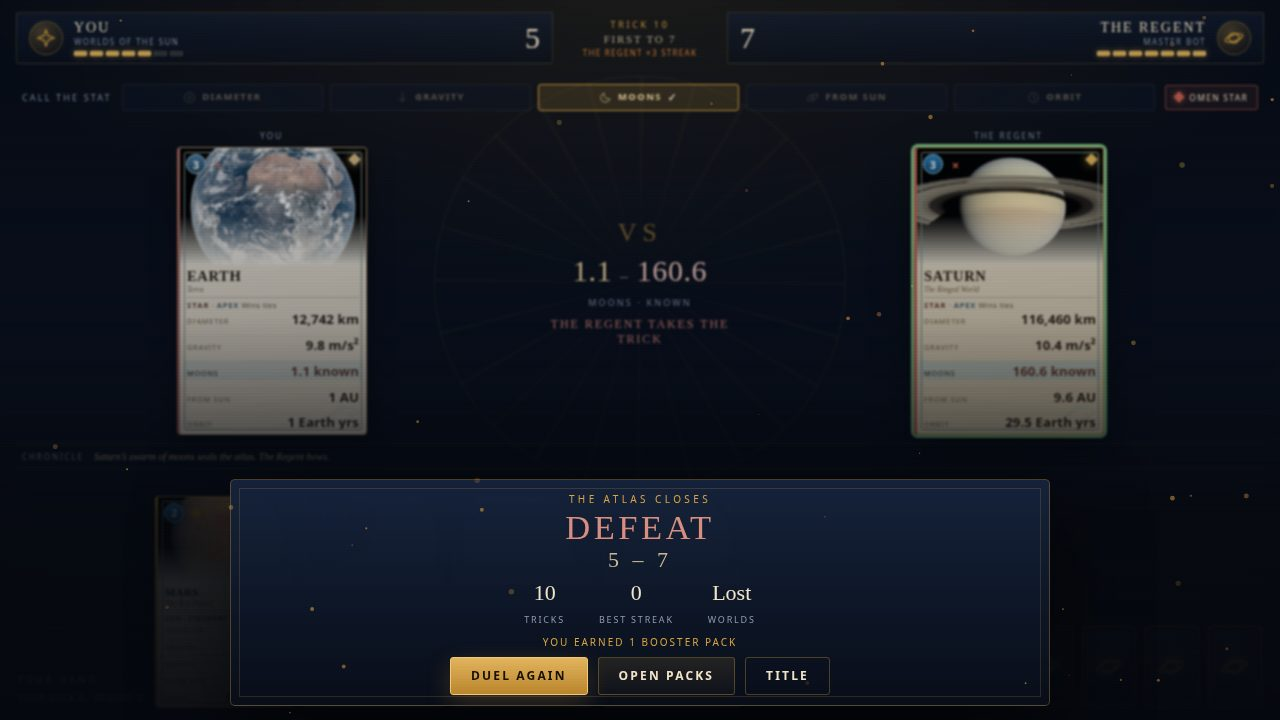
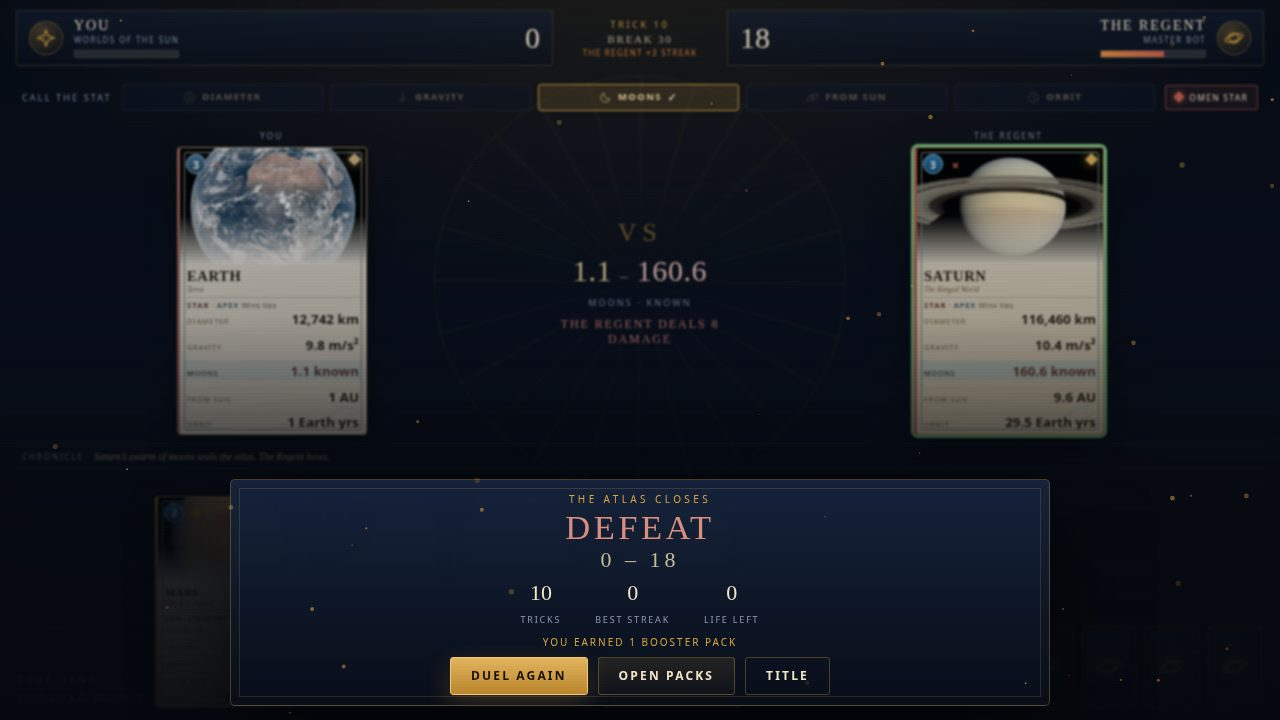
Turn points into a Resolve life duel with damage

diff --git a/game/src/render.js b/game/src/render.js
@@ -108,8 +108,9 @@ function miniCardHtml(deck, card, locked) {
   </button>`;
 }
 
-function scorePips(score, target, side) {
-  return `<div class="pips ${side}">${Array.from({ length: target }, (_, i) => `<span class="pip${i < score ? ' on' : ''}"></span>`).join('')}</div>`;
+function lifeBar(life, max, side) {
+  const pct = Math.max(0, Math.min(100, (life / Math.max(1, max)) * 100));
+  return `<div class="life-bar ${side}"><span style="width:${pct}%"></span></div>`;
 }
 
 /* ---------------- title ---------------- */
@@ -263,10 +264,10 @@ export function renderMatch(root, match, ui) {
     : index === 0 ? 'You' : 'The Regent';
   const trickLine = result
     ? result.winner === 0
-      ? { text: result.tiebreak === 'apex' ? 'Apex breaks the tie' : result.bonus ? `${winnerName(0)} take${match.mode === 'local' ? 's' : ''} it + momentum` : `${winnerName(0)} take${match.mode === 'local' ? 's' : ''} the trick`, cls: 'win' }
+      ? { text: `${winnerName(0)} deal${match.mode === 'local' ? 's' : ''} ${result.damage} damage`, cls: 'win' }
       : result.winner === 1
-        ? { text: result.tiebreak === 'apex' ? 'Apex breaks the tie' : result.bonus ? `${winnerName(1)} + momentum` : `${winnerName(1)} takes the trick`, cls: 'loss' }
-        : { text: 'Dead heat: no point', cls: 'tie' }
+        ? { text: `${winnerName(1)} deals ${result.damage} damage`, cls: 'loss' }
+        : { text: 'Dead heat: no damage', cls: 'tie' }
     : { text: match.phase === 'call' ? `${leader.name} calls the stat` : 'Cards are set', cls: '' };
   const busyNote = ui.busy ? 'The Regent is thinking…' : '';
   const hint = match.phase === 'call'
@@ -280,18 +281,18 @@ export function renderMatch(root, match, ui) {
     <header class="hud">
       <div class="score-panel left">
         <span class="crest">${icon('star')}</span>
-        <div><div class="who">${esc(you.name)}<small>${esc(match.deck.name)}</small></div>${scorePips(you.score, match.target, '')}</div>
-        <div class="score-num">${you.score}</div>
+        <div><div class="who">${esc(you.name)}<small>${esc(match.deck.name)}</small></div>${lifeBar(you.life, match.life, '')}</div>
+        <div class="score-num">${you.life}</div>
       </div>
       <div class="trick-center">
         <div class="eyebrow">Trick ${match.trick}</div>
-        <div class="target">First to ${match.target}</div>
+        <div class="target">Break ${match.life}</div>
         <div class="streak">${you.run ? `${you.name} &times;${you.run} streak` : rival.run ? `${rival.name} &times;${rival.run} streak` : ''}</div>
       </div>
       <div class="score-panel right">
         <span class="crest">${emblem(match.deck.emblem)}</span>
-        <div><div class="who">${esc(rival.name)}<small>${match.mode === 'solo' ? esc(match.difficulty) + ' bot' : 'second duelist'}</small></div>${scorePips(rival.score, match.target, 'right')}</div>
-        <div class="score-num">${rival.score}</div>
+        <div><div class="who">${esc(rival.name)}<small>${match.mode === 'solo' ? esc(match.difficulty) + ' bot' : 'second duelist'}</small></div>${lifeBar(rival.life, match.life, 'right')}</div>
+        <div class="score-num">${rival.life}</div>
       </div>
     </header>
     <div class="call-bar">
@@ -403,11 +404,11 @@ export function renderResult(root, match, reward) {
     <div class="result-panel">
       <div class="result-kicker">${won ? 'The atlas is yours' : 'The atlas closes'}</div>
       <div class="result-title ${won ? 'win' : 'loss'}">${won ? 'Victory' : 'Defeat'}</div>
-      <div class="result-score">${match.players[0].score} &ndash; ${match.players[1].score}</div>
+      <div class="result-score">${match.players[0].life} &ndash; ${match.players[1].life}</div>
       <div class="result-stats">
         <div class="result-stat"><b>${match.trick}</b><span>Tricks</span></div>
         <div class="result-stat"><b>${match.players[0].bestStreak}</b><span>Best streak</span></div>
-        <div class="result-stat"><b>${won ? 'Won' : 'Lost'}</b><span>${esc(match.deck.short)}</span></div>
+        <div class="result-stat"><b>${match.players[0].life}</b><span>Life left</span></div>
       </div>
       <div class="result-pack">${reward === 1 ? 'You earned 1 booster pack' : `You earned ${reward} booster packs`}</div>
       <div class="btn-row">
@@ -441,13 +442,13 @@ export function renderCardModal(deck, card, credit) {
 export function renderHelp() {
   return `
     <h2>How to duel</h2>
-    <p>Apex Atlas is a card duel of real-world facts. You and your rival each hold four cards from the same deck; the first to <b>7 points</b> wins.</p>
+    <p>Apex Atlas is a card duel of real-world facts. You and your rival each hold four cards from the same deck; each starts with <b>30 Resolve</b>, and the first to break the other to zero wins.</p>
     <ol>
       <li><b>Call the stat.</b> The call alternates each trick; the leader chooses one of the deck's five stats &mdash; mass, height, moons, whatever the deck offers.</li>
       <li><b>Commit a card.</b> Both duelists choose a card in secret. The card with the higher value in the called stat takes the trick and one point.</li>
       <li><b>Spend energy.</b> Each trick gives 3 energy. A card costs its tier (1&ndash;3); a charge costs 1 more. A tier-3 card leaves nothing for a charge.</li>
       <li><b>Burn a charge.</b> Each duelist has two charges. Arm one before you commit for +15% to the called stat &mdash; a bluff or a rescue.</li>
-      <li><b>Ride momentum.</b> Three tricks in a row earns a bonus point.</li>
+      <li><b>Ride momentum.</b> Three tricks in a row adds +2 damage. A trick win deals 4, +2 for double the stat and +2 more for quadruple.</li>
       <li><b>Know the traits.</b> <b>Apex</b> wins a tied stat. <b>Swift</b> recovers a charge when it loses. <b>Stalwart</b> denies the winner momentum.</li>
       <li><b>Watch the omen.</b> Each trick names a crest &mdash; Sun, Moon or Star. A committed card of that crest adds 10% to the called stat.</li>
       <li><b>Scout once.</b> In solo play, spend your one scouting run to see the Regent's hand for a trick.</li>

diff --git a/game/src/rules.js b/game/src/rules.js
@@ -5,7 +5,7 @@
 import { CRESTS, CREST_KEYS, DECKS, TRAITS, crestOf, traitOf } from './decks.js';
 import { createRng, shuffle } from './rng.js';
 
-export const TARGET_POINTS = 7;
+export const START_LIFE = 30;
 export const HAND_SIZE = 4;
 export const TRICK_ENERGY = 3;
 export const CHARGE_BONUS = 1.15;
@@ -23,7 +23,7 @@ function buildPile(deck, unlockedIds, rng) {
   return shuffle(pile, rng).slice(0, 12);
 }
 
-export function newMatch({ deckId, unlockedIds, mode = 'solo', difficulty = 'adept', seed = Date.now(), target = TARGET_POINTS }) {
+export function newMatch({ deckId, unlockedIds, mode = 'solo', difficulty = 'adept', seed = Date.now(), life = START_LIFE }) {
   const deck = DECKS[deckId];
   const rng = createRng(seed);
   const names = mode === 'local' ? ['DUELIST I', 'DUELIST II'] : ['YOU', 'THE REGENT'];
@@ -34,7 +34,7 @@ export function newMatch({ deckId, unlockedIds, mode = 'solo', difficulty = 'ade
     hand: [],
     draw: buildPile(deck, unlockedIds, rng),
     discard: [],
-    score: 0,
+    life,
     streak: 0,
     run: 0,
     bestStreak: 0,
@@ -48,7 +48,7 @@ export function newMatch({ deckId, unlockedIds, mode = 'solo', difficulty = 'ade
     deckId,
     mode,
     difficulty,
-    target,
+    life,
     random: rng,
     seed,
     players,
@@ -65,7 +65,7 @@ export function newMatch({ deckId, unlockedIds, mode = 'solo', difficulty = 'ade
     winner: null,
   };
   for (const player of players) drawToHand(match, player);
-  say(match, `${names[0]} opens the atlas. First to ${target} points takes the duel.`);
+  say(match, `${names[0]} opens the atlas. Break ${life} Resolve to win the duel.`);
   return match;
 }
 
@@ -163,7 +163,6 @@ export function reveal(match) {
   } else {
     const player = match.players[winner];
     const other = match.players[1 - winner];
-    player.score += 1;
     player.run += 1;
     player.bestStreak = Math.max(player.bestStreak, player.run);
     const loserCard = sides[1 - winner].card;
@@ -177,15 +176,24 @@ export function reveal(match) {
       other.charges += 1;
       say(match, `${loserCard.name} is swift: its duelist recovers a charge.`);
     }
+    let damage = 4;
+    const winnerValue = Math.abs(sides[winner].value);
+    const loserValue = Math.abs(sides[1 - winner].value);
+    if (winnerValue > 0) {
+      if (loserValue === 0 || winnerValue >= loserValue * 2) damage += 2;
+      if (loserValue === 0 || winnerValue >= loserValue * 4) damage += 2;
+    }
     other.streak = 0;
     other.run = 0;
-    say(match, `${player.name} takes the trick, ${a.value} to ${b.value}.${tiebreak === 'apex' ? ' Apex breaks the tie.' : ''}`);
     if (player.streak === 3) {
-      player.score += 1;
+      damage += 2;
       player.streak = 0;
       match.result.bonus = true;
-      say(match, `Three in a row: ${player.name} claims a momentum point.`);
+      say(match, `Three in a row: ${player.name} adds momentum damage.`);
     }
+    other.life = Math.max(0, other.life - damage);
+    match.result.damage = damage;
+    say(match, `${player.name} takes the trick, ${a.value} to ${b.value}: ${damage} damage.${tiebreak === 'apex' ? ' Apex breaks the tie.' : ''}`);
   }
   match.phase = 'resolve';
   return match.result;
@@ -201,12 +209,12 @@ export function finishTrick(match) {
     player.energy = TRICK_ENERGY;
     drawToHand(match, player);
   }
-  if (match.players.some((player) => player.score >= match.target)) {
+  if (match.players.some((player) => player.life <= 0)) {
     match.over = true;
     match.phase = 'over';
-    const top = match.players[0].score === match.players[1].score ? -1 : match.players[0].score > match.players[1].score ? 0 : 1;
+    const top = match.players[0].life > 0 ? 0 : 1;
     match.winner = top;
-    if (top >= 0) say(match, `${match.players[top].name} wins the duel, ${match.players[top].score} to ${match.players[1 - top].score}.`);
+    say(match, `${match.players[top].name} wins the duel, ${match.players[1 - top].name}'s Resolve is broken.`);
     return;
   }
   // The call alternates: both duelists get to steer a trick, and a hot hand cannot lock the lead.

diff --git a/game/src/shots.js b/game/src/shots.js
@@ -19,15 +19,15 @@ function baseMatch(deckId, seed = 11) {
     mode: 'solo',
     difficulty: 'master',
     seed,
-    target: 7,
+    life: 30,
   });
 }
 
 function duelScene() {
   const match = baseMatch('wonders', 23);
   match.trick = 6;
-  match.players[0].score = 3;
-  match.players[1].score = 2;
+  match.players[0].life = 22;
+  match.players[1].life = 18;
   match.players[0].streak = 2;
   match.players[0].run = 2;
   fillHand(match, 0, ['eiffel', 'taj', 'machu', 'petra']);
@@ -39,8 +39,6 @@ function duelScene() {
   callStat(match, 'height');
   commitCard(match, 0, 'eiffel', true);
   commitCard(match, 1, 'colosseum', false);
-  match.players[0].score = 3;
-  match.players[1].score = 2;
   reveal(match);
   match.players[0].hand = ['taj', 'machu', 'wall', 'liberty'];
   match.players[1].hand = ['pyramid', 'petra', 'eiffel', 'machu'];
@@ -48,7 +46,7 @@ function duelScene() {
   match.players[1].draw = ['wall', 'liberty', 'taj', 'colosseum'];
   match.log = [
     'You call HEIGHT. The Regent commits without a word.',
-    'You take the trick, 417.5 m to 48 m. The Eiffel stands tall.',
+    'You take the trick, 417.5 m to 48 m: 10 damage. The Eiffel stands tall.',
   ];
   return { match, ui: {}, screen: 'match' };
 }
@@ -57,8 +55,8 @@ function winScene() {
   const match = baseMatch('beasts', 31);
   match.trick = 9;
   match.omen = 'moon';
-  match.players[0].score = 7;
-  match.players[1].score = 4;
+  match.players[0].life = 15;
+  match.players[1].life = 0;
   match.players[0].bestStreak = 3;
   match.players[0].run = 3;
   match.over = true;
@@ -74,6 +72,7 @@ function winScene() {
     ],
     winner: 0,
     omen: 'moon',
+    damage: 8,
   };
   match.players[0].hand = ['elephant', 'cheetah', 'grizzly', 'peregrine'];
   match.players[1].hand = ['python', 'ostrich', 'elephant', 'cheetah'];
@@ -87,8 +86,8 @@ function lossScene() {
   const match = baseMatch('worlds', 43);
   match.trick = 10;
   match.omen = 'star';
-  match.players[0].score = 5;
-  match.players[1].score = 7;
+  match.players[0].life = 0;
+  match.players[1].life = 18;
   match.players[1].bestStreak = 3;
   match.players[1].run = 3;
   match.over = true;
@@ -104,6 +103,7 @@ function lossScene() {
     ],
     winner: 1,
     omen: 'star',
+    damage: 8,
   };
   match.players[0].hand = ['mars', 'mercury', 'venus', 'jupiter'];
   match.players[1].hand = ['uranus', 'neptune', 'earth', 'mars'];

diff --git a/game/src/main.js b/game/src/main.js
@@ -3,7 +3,7 @@
 
 import { CREDITS, DECKS } from './decks.js';
 import { awardMatch, loadCollection, openPack as openAtlasPack } from './collection.js';
-import { newMatch, callStat, commitCard, reveal, finishTrick, scoutHand, TARGET_POINTS } from './rules.js';
+import { newMatch, callStat, commitCard, reveal, finishTrick, scoutHand } from './rules.js';
 import { botCall, botCommit, botFlavor } from './bots.js';
 import { createEffects } from './effects.js';
 import { isMuted, sound, toggleMute } from './audio.js';
@@ -122,7 +122,6 @@ function startMatch() {
     mode: state.mode,
     difficulty: state.difficulty,
     seed: (Date.now() ^ Math.floor(Math.random() * 0xffff)) >>> 0,
-    target: TARGET_POINTS,
   });
   state.screen = 'match';
   refreshCommitter();
@@ -185,10 +184,10 @@ function endMatch() {
   if (won) {
     sound.win();
     effects.burst(150);
-    announce(`Victory, ${match.players[0].score} to ${match.players[1].score}. ${state.resultReward} packs earned.`);
+    announce(`Victory, ${match.players[0].life} Resolve left. ${state.resultReward} packs earned.`);
   } else {
     sound.lose();
-    announce(`Defeat, ${match.players[0].score} to ${match.players[1].score}. ${state.resultReward} pack earned.`);
+    announce(`Defeat, the Regent had ${match.players[1].life} Resolve left. ${state.resultReward} pack earned.`);
   }
 }
 

diff --git a/game/styles/table.css b/game/styles/table.css
@@ -14,6 +14,9 @@
 .crest svg { width: 20px; height: 20px; }
 .who { font-family: var(--serif); font-size: 14px; letter-spacing: 0.14em; text-transform: uppercase; white-space: nowrap; overflow: hidden; text-overflow: ellipsis; }
 .who small { display: block; font-family: var(--sans); font-size: 8px; letter-spacing: 0.18em; color: var(--muted); text-transform: uppercase; }
+.life-bar { width: 100%; height: 8px; margin-top: 5px; border-radius: 2px; overflow: hidden; background: rgba(242, 228, 200, 0.14); border: 1px solid rgba(242, 228, 200, 0.09); }
+.life-bar span { display: block; height: 100%; background: linear-gradient(90deg, #7fc98a, #d9a441); transition: width 300ms ease; }
+.life-bar.right span { background: linear-gradient(90deg, #e08a3c, #c9604f); }
 .pips { display: flex; gap: 3px; margin-top: 4px; }
 .pips.right { justify-content: flex-end; }
 .pip { width: 13px; height: 5px; border-radius: 1px; background: rgba(242, 228, 200, 0.14); border: 1px solid rgba(242, 228, 200, 0.09); }

diff --git a/game/src/bots.js b/game/src/bots.js
@@ -58,7 +58,7 @@ export function botCommit(match) {
   }
   const chosen = ranked[0];
   const swing = chosen.value < (match.difficulty === 'master' ? 0.45 : 0.3);
-  const pressure = match.players[0].score >= match.target - 2;
+  const pressure = bot.life <= 6;
   const canCharge = bot.charges > 0 && bot.energy >= chosen.card.tier + 1;
   const wantsCharge = canCharge && (swing || (pressure && match.difficulty === 'master' && match.random() > 0.5));
   return { cardId: chosen.card.id, charge: wantsCharge };

diff --git a/README.md b/README.md
@@ -7,7 +7,7 @@
 An original card duel about the real world. Two duelists share one deck of real animals,
 wonders or worlds; each card carries five comparable numbers; the leader calls a stat and
 both commit a card. Higher takes the trick, three in a row earns momentum, and the first to
-seven points wins. Two-player local and three bot temperaments, plus booster packs that
+break 30 Resolve wins. Two-player local and three bot temperaments, plus booster packs that
 unlock more of the atlas.
 
 Built for [make.fun's "Make the best card game" bounty](https://make.fun/bounty/best-card-game-20261122-1826). Everything runs offline from
@@ -29,7 +29,7 @@ Then open <http://localhost:8080>.
   denies the winner momentum.
 - Each trick reveals an **omen** crest; its cards add 10% to the called stat.
 - Two charges per duel add 15%, one scouting run opens the Regent's hand, and
-  three tricks in a row earn a momentum point. First to seven points wins.
+  three tricks in a row add +2 damage. First to break 30 Resolve wins.
 - Booster packs unlock the rest of the atlas across all three decks.
 
 ## The entry
